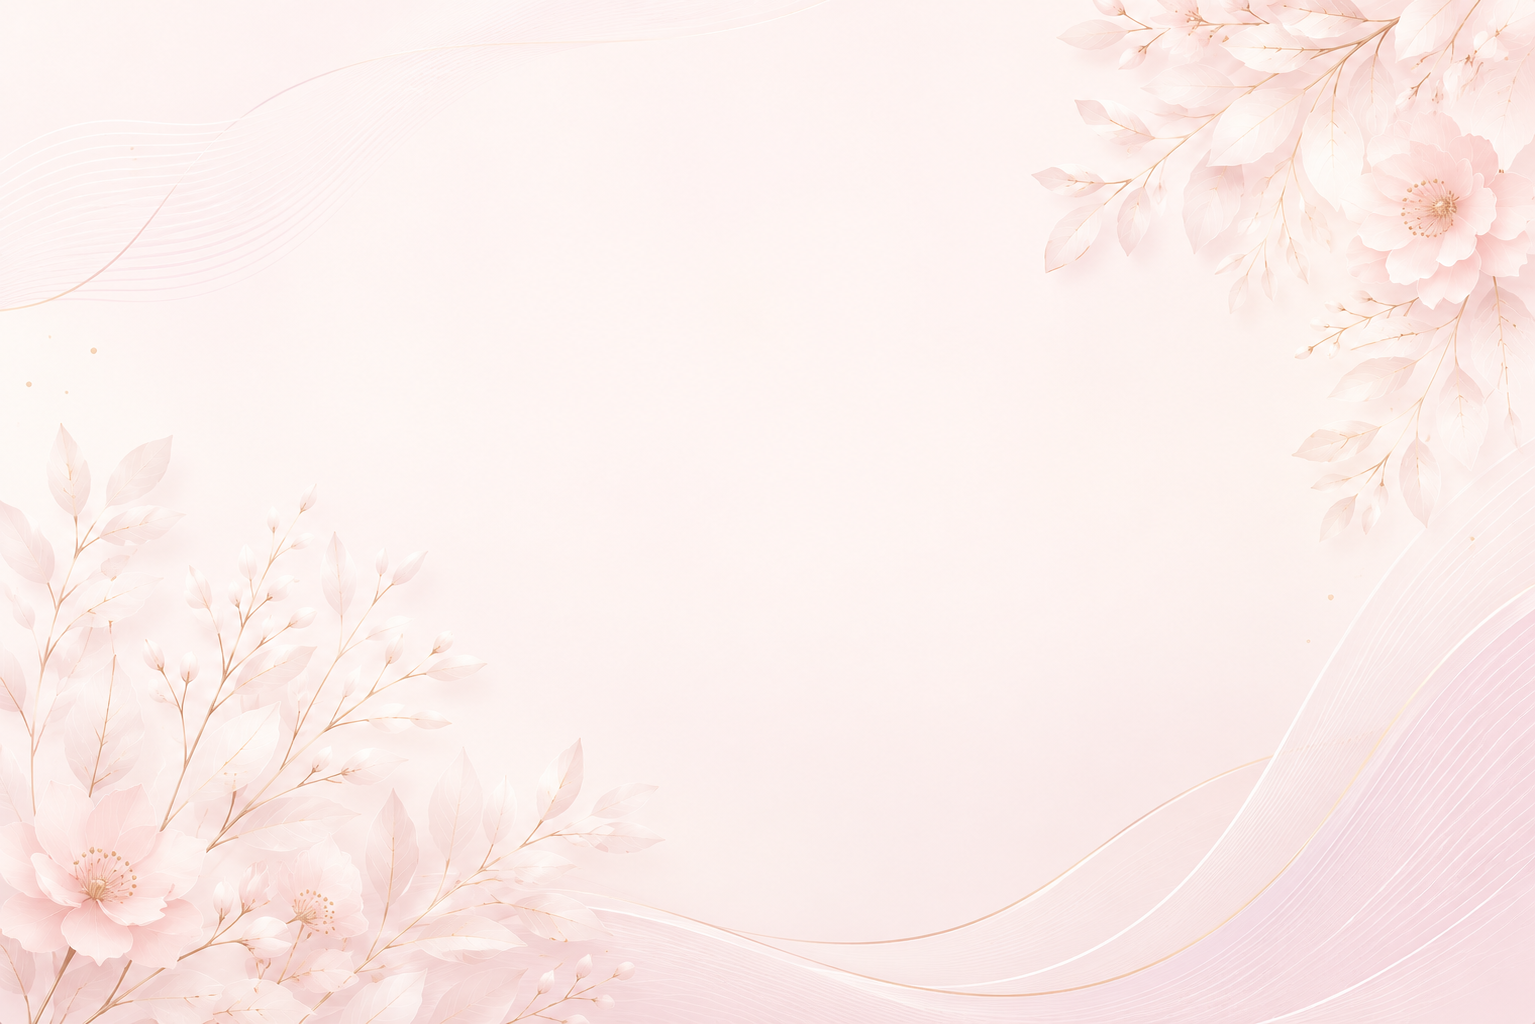
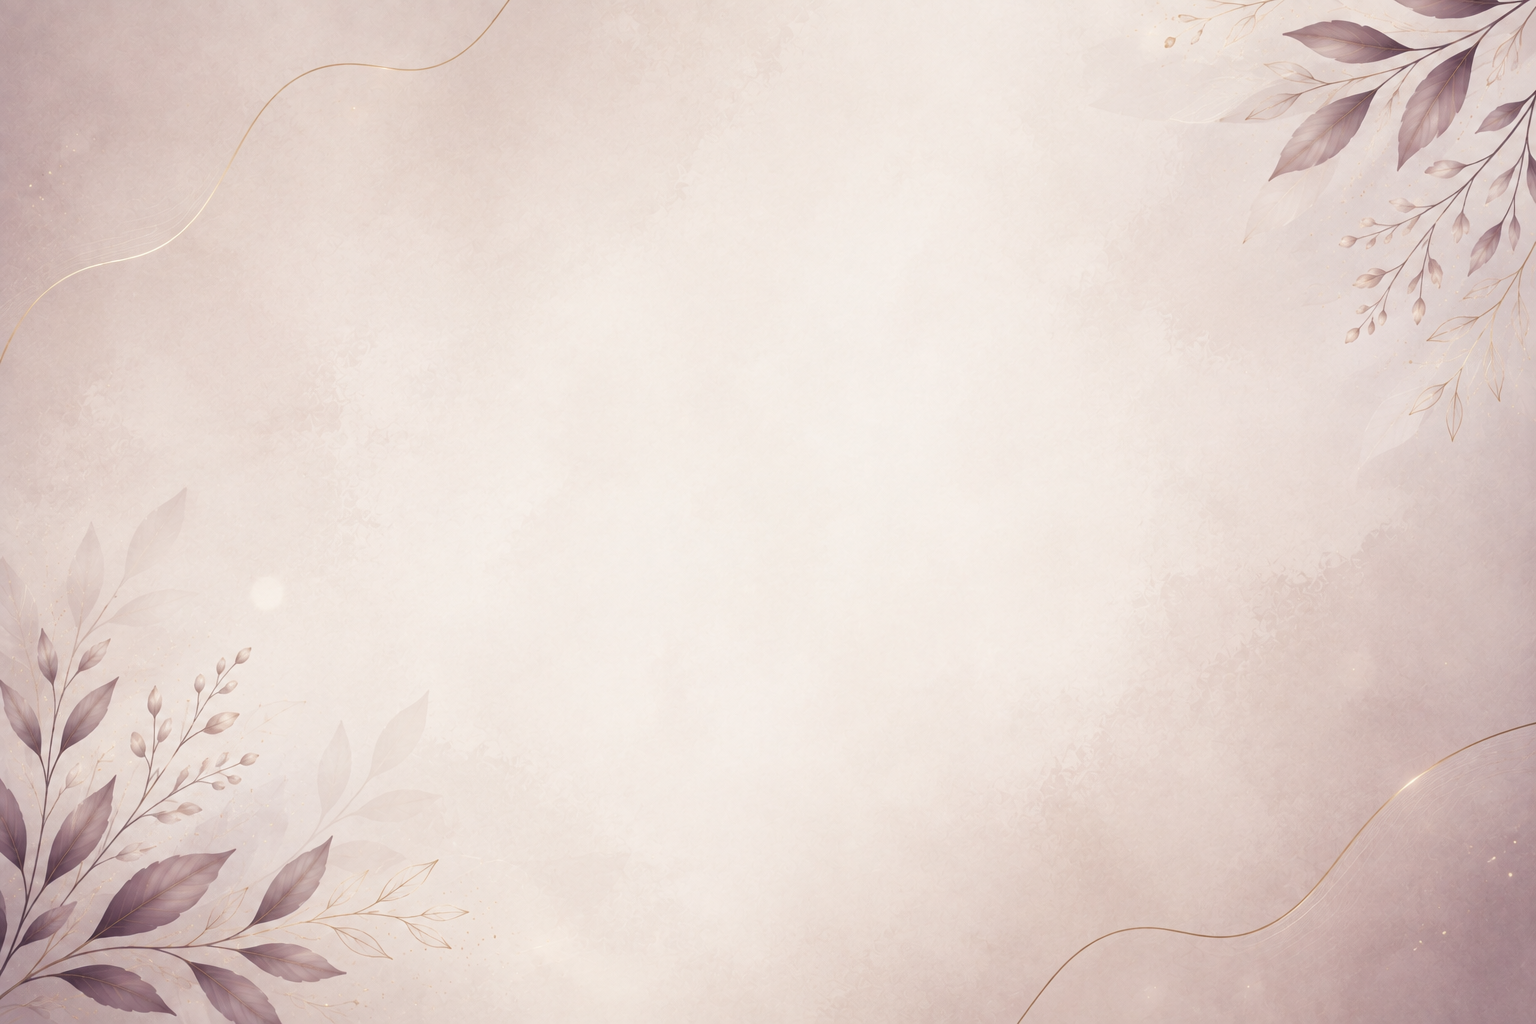
make the selected deal check tab navy

diff --git a/src/pages/studio/dealcheck/DealCheckOverlay.jsx b/src/pages/studio/dealcheck/DealCheckOverlay.jsx
@@ -1064,14 +1064,16 @@ export default function DealCheckOverlay({ ctx }) {
                 labels rather than things you can point at. */}
             <style>{`
 .dc-tab{transition:background .14s ease,color .14s ease,border-color .14s ease}
-/* Was rgba(26,26,46,0.05) — 5% black, which over the overlay's own artwork was invisible: you could
-   not tell a hovered tab from a cold one. Filled with the app's ink instead, label flipped to the
-   warm off-white the headings use, so the tab under the pointer is unmistakable. !important because
-   both properties are set inline on the button and would otherwise win. */
-.dc-tab[data-on="0"]:hover{background:#221C42 !important;color:#F5F1E7 !important;border-color:#221C42 !important}
-/* The selected tab darkens a step on hover too, rather than sitting inert — without this the one
-   tab you cannot "press" is also the only one that ignores the pointer. */
-.dc-tab[data-on="1"]:hover{background:#EADBB8 !important}
+/* Navy IS the selected state (see the inline style on the button), so hover must not also be navy —
+   two tabs reading as chosen at once is worse than no hover at all. A cold tab warms toward navy
+   instead: a pale ink wash with ink text, which says "this is where you are pointing" and still
+   leaves the filled tab as the only selected one.
+   Was rgba(26,26,46,0.05) — 5% black, invisible over the overlay's artwork. !important because both
+   properties are set inline on the button and would otherwise win. */
+.dc-tab[data-on="0"]:hover{background:#EAE7F2 !important;color:#221C42 !important;border-color:rgba(34,28,66,0.30) !important}
+/* The selected tab deepens a step rather than sitting inert — without this the one tab you cannot
+   press is also the only one that ignores the pointer entirely. */
+.dc-tab[data-on="1"]:hover{background:#171233 !important}
 .dc-chip{transition:background .14s ease,box-shadow .16s ease,transform .12s ease}
 .dc-chip:hover{background:rgba(26,26,46,0.09) !important;box-shadow:0 3px 10px -6px rgba(26,26,46,0.5);transform:translateY(-1px)}
 @media (prefers-reduced-motion: reduce){
@@ -1275,10 +1277,13 @@ export default function DealCheckOverlay({ ctx }) {
                 {/* OPAQUE, both states. These were `transparent` when cold and `${accent}1F` — 12%
                     gold — when selected, which was fine over a flat panel and is not over the
                     overlay's artwork: the flowers read straight through the row and the pills
-                    stopped looking like controls. Solid white when cold, solid gold tint when
-                    selected, with a hairline so a white pill still has an edge. */}
+                    stopped looking like controls.
+                    THE SELECTED TAB IS THE NAVY ONE. A filled dark pill against white ones is the
+                    strongest contrast available here, and it is the same ink the app's header and
+                    card headings already wear — so "where am I" is answered from across the room
+                    rather than by spotting which pill is a slightly warmer cream. */}
                 {TABS.map(t => (
-                  <button key={t.id} className="dc-tab" data-on={dcActiveTab===t.id?"1":"0"} onClick={()=>setDcActiveTab(t.id)} style={{padding:"8px 13px",borderRadius:999,border:dcActiveTab===t.id?`1px solid ${accent}77`:"1px solid rgba(26,26,46,0.10)",cursor:"pointer",fontSize:13,fontWeight:dcActiveTab===t.id?700:500,background:dcActiveTab===t.id?"#F3E7CE":"#FFFFFF",color:dcActiveTab===t.id?"#1A1A2E":textS,whiteSpace:"nowrap",letterSpacing:0.2,position:"relative",display:"inline-flex",alignItems:"center",gap:6,lineHeight:1,flexShrink:0}}>
+                  <button key={t.id} className="dc-tab" data-on={dcActiveTab===t.id?"1":"0"} onClick={()=>setDcActiveTab(t.id)} style={{padding:"8px 13px",borderRadius:999,border:dcActiveTab===t.id?"1px solid #221C42":"1px solid rgba(26,26,46,0.10)",cursor:"pointer",fontSize:13,fontWeight:dcActiveTab===t.id?700:500,background:dcActiveTab===t.id?"#221C42":"#FFFFFF",color:dcActiveTab===t.id?"#F5F1E7":textS,whiteSpace:"nowrap",letterSpacing:0.2,position:"relative",display:"inline-flex",alignItems:"center",gap:6,lineHeight:1,flexShrink:0}}>
                     <span style={{fontSize:14,lineHeight:1}}>{t.icon}</span>{t.label}
                     {!t.live && <span style={{marginLeft:6,fontSize:10,padding:"2px 5px",borderRadius:4,background:"rgba(245,158,11,0.18)",color:"#F59E0B",fontWeight:700,letterSpacing:0.4}}>{t.ship}</span>}
                   </button>
